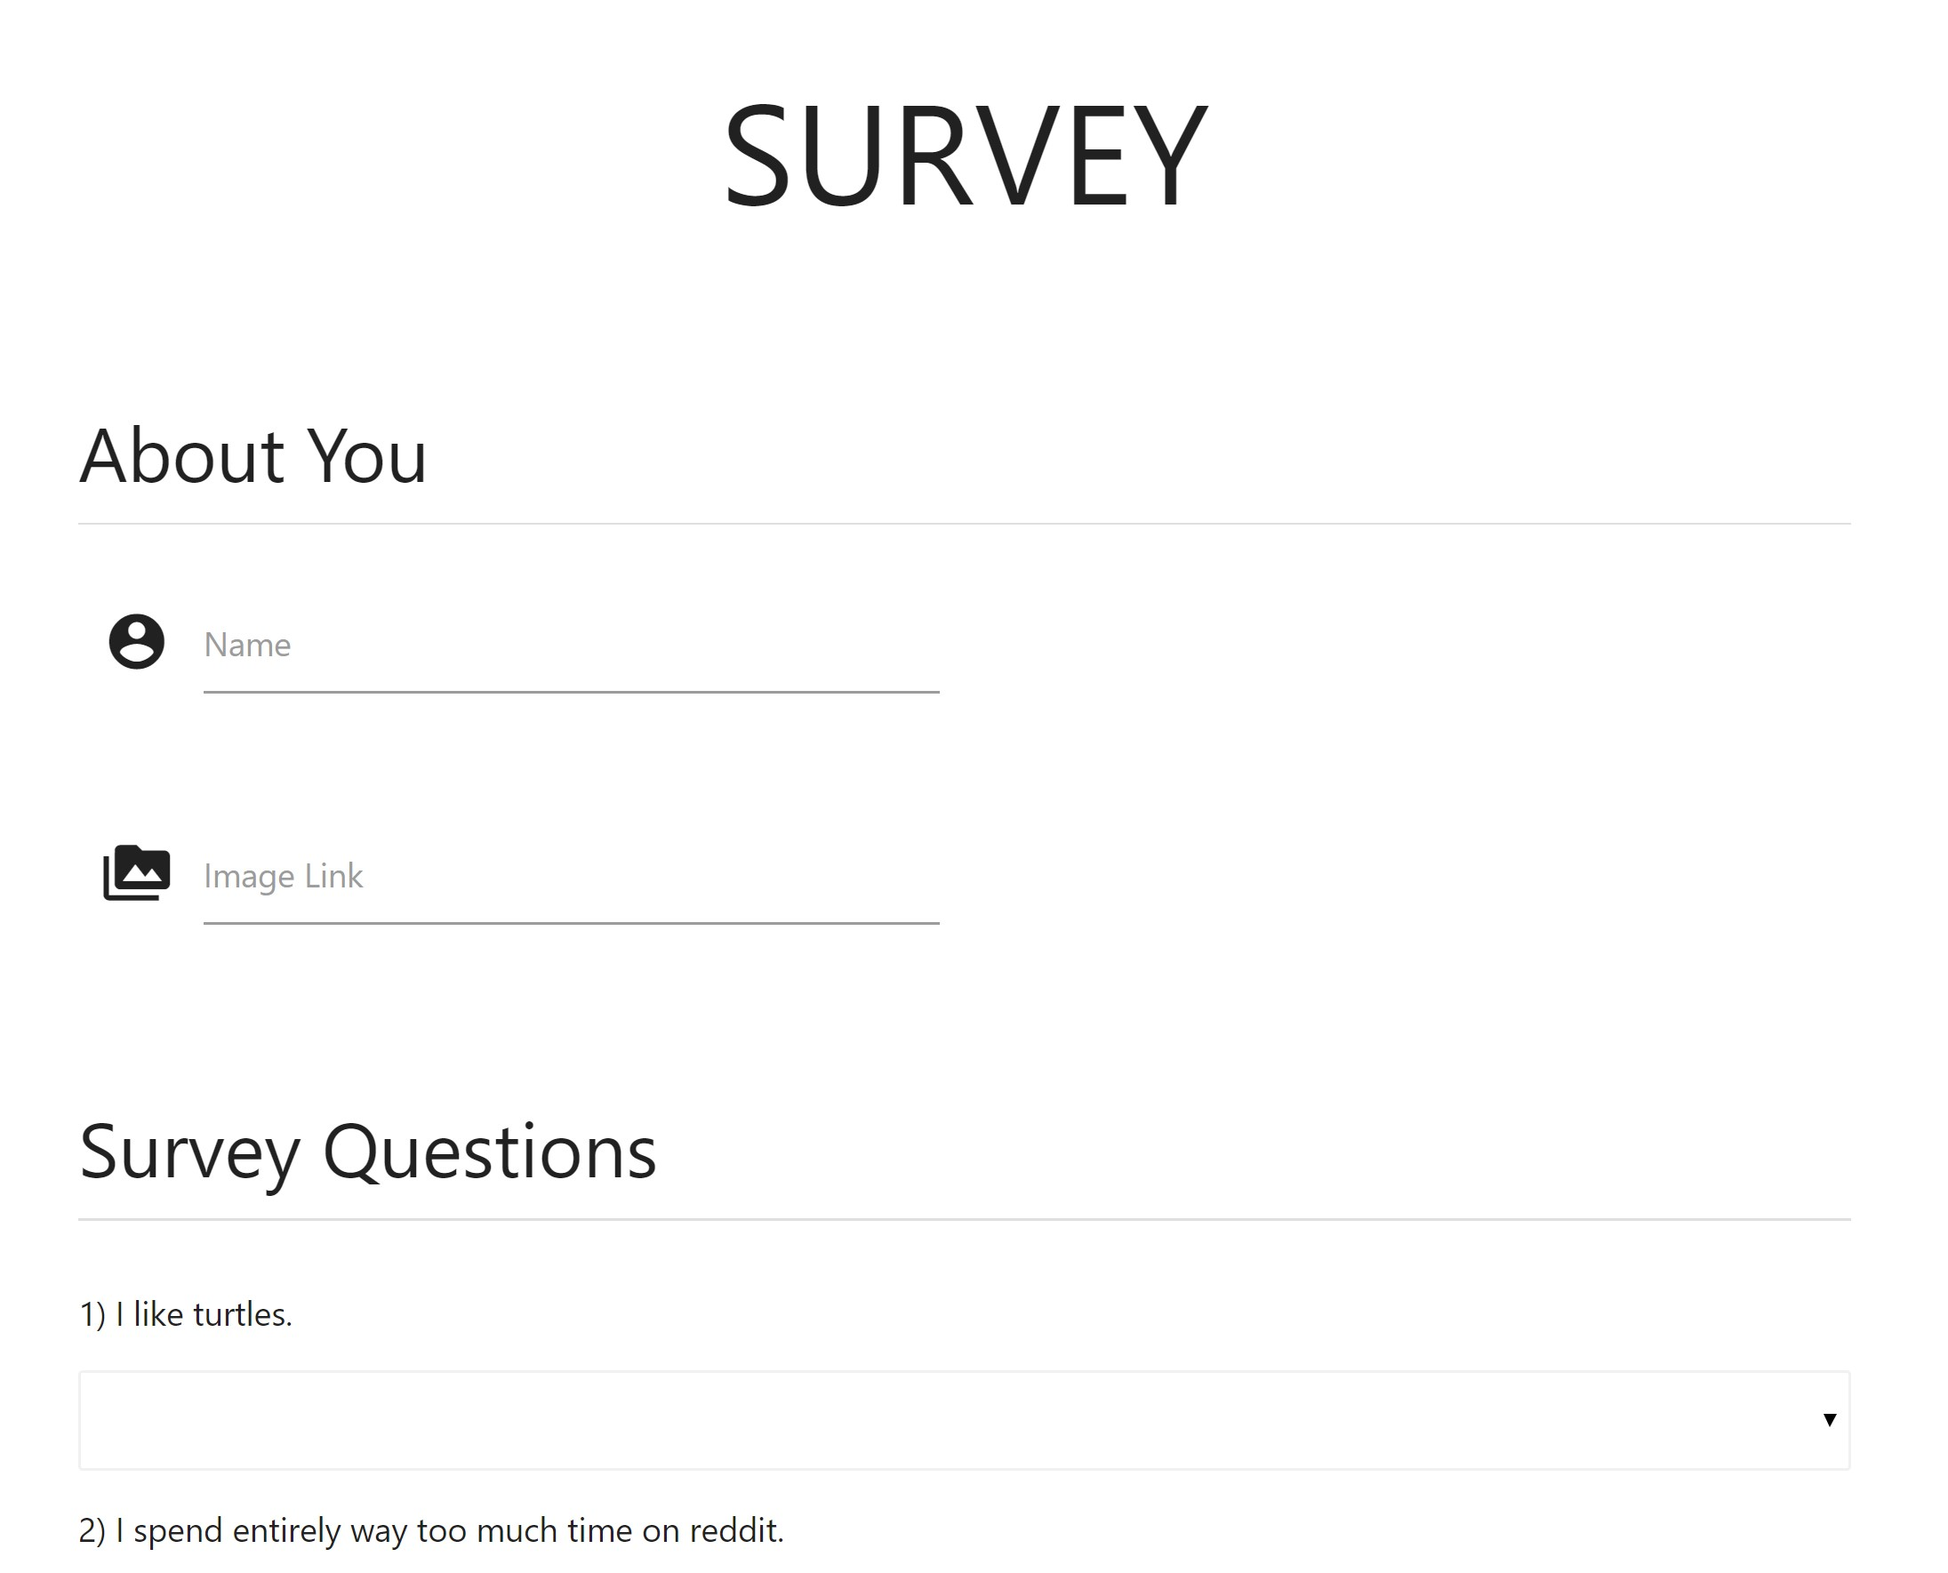
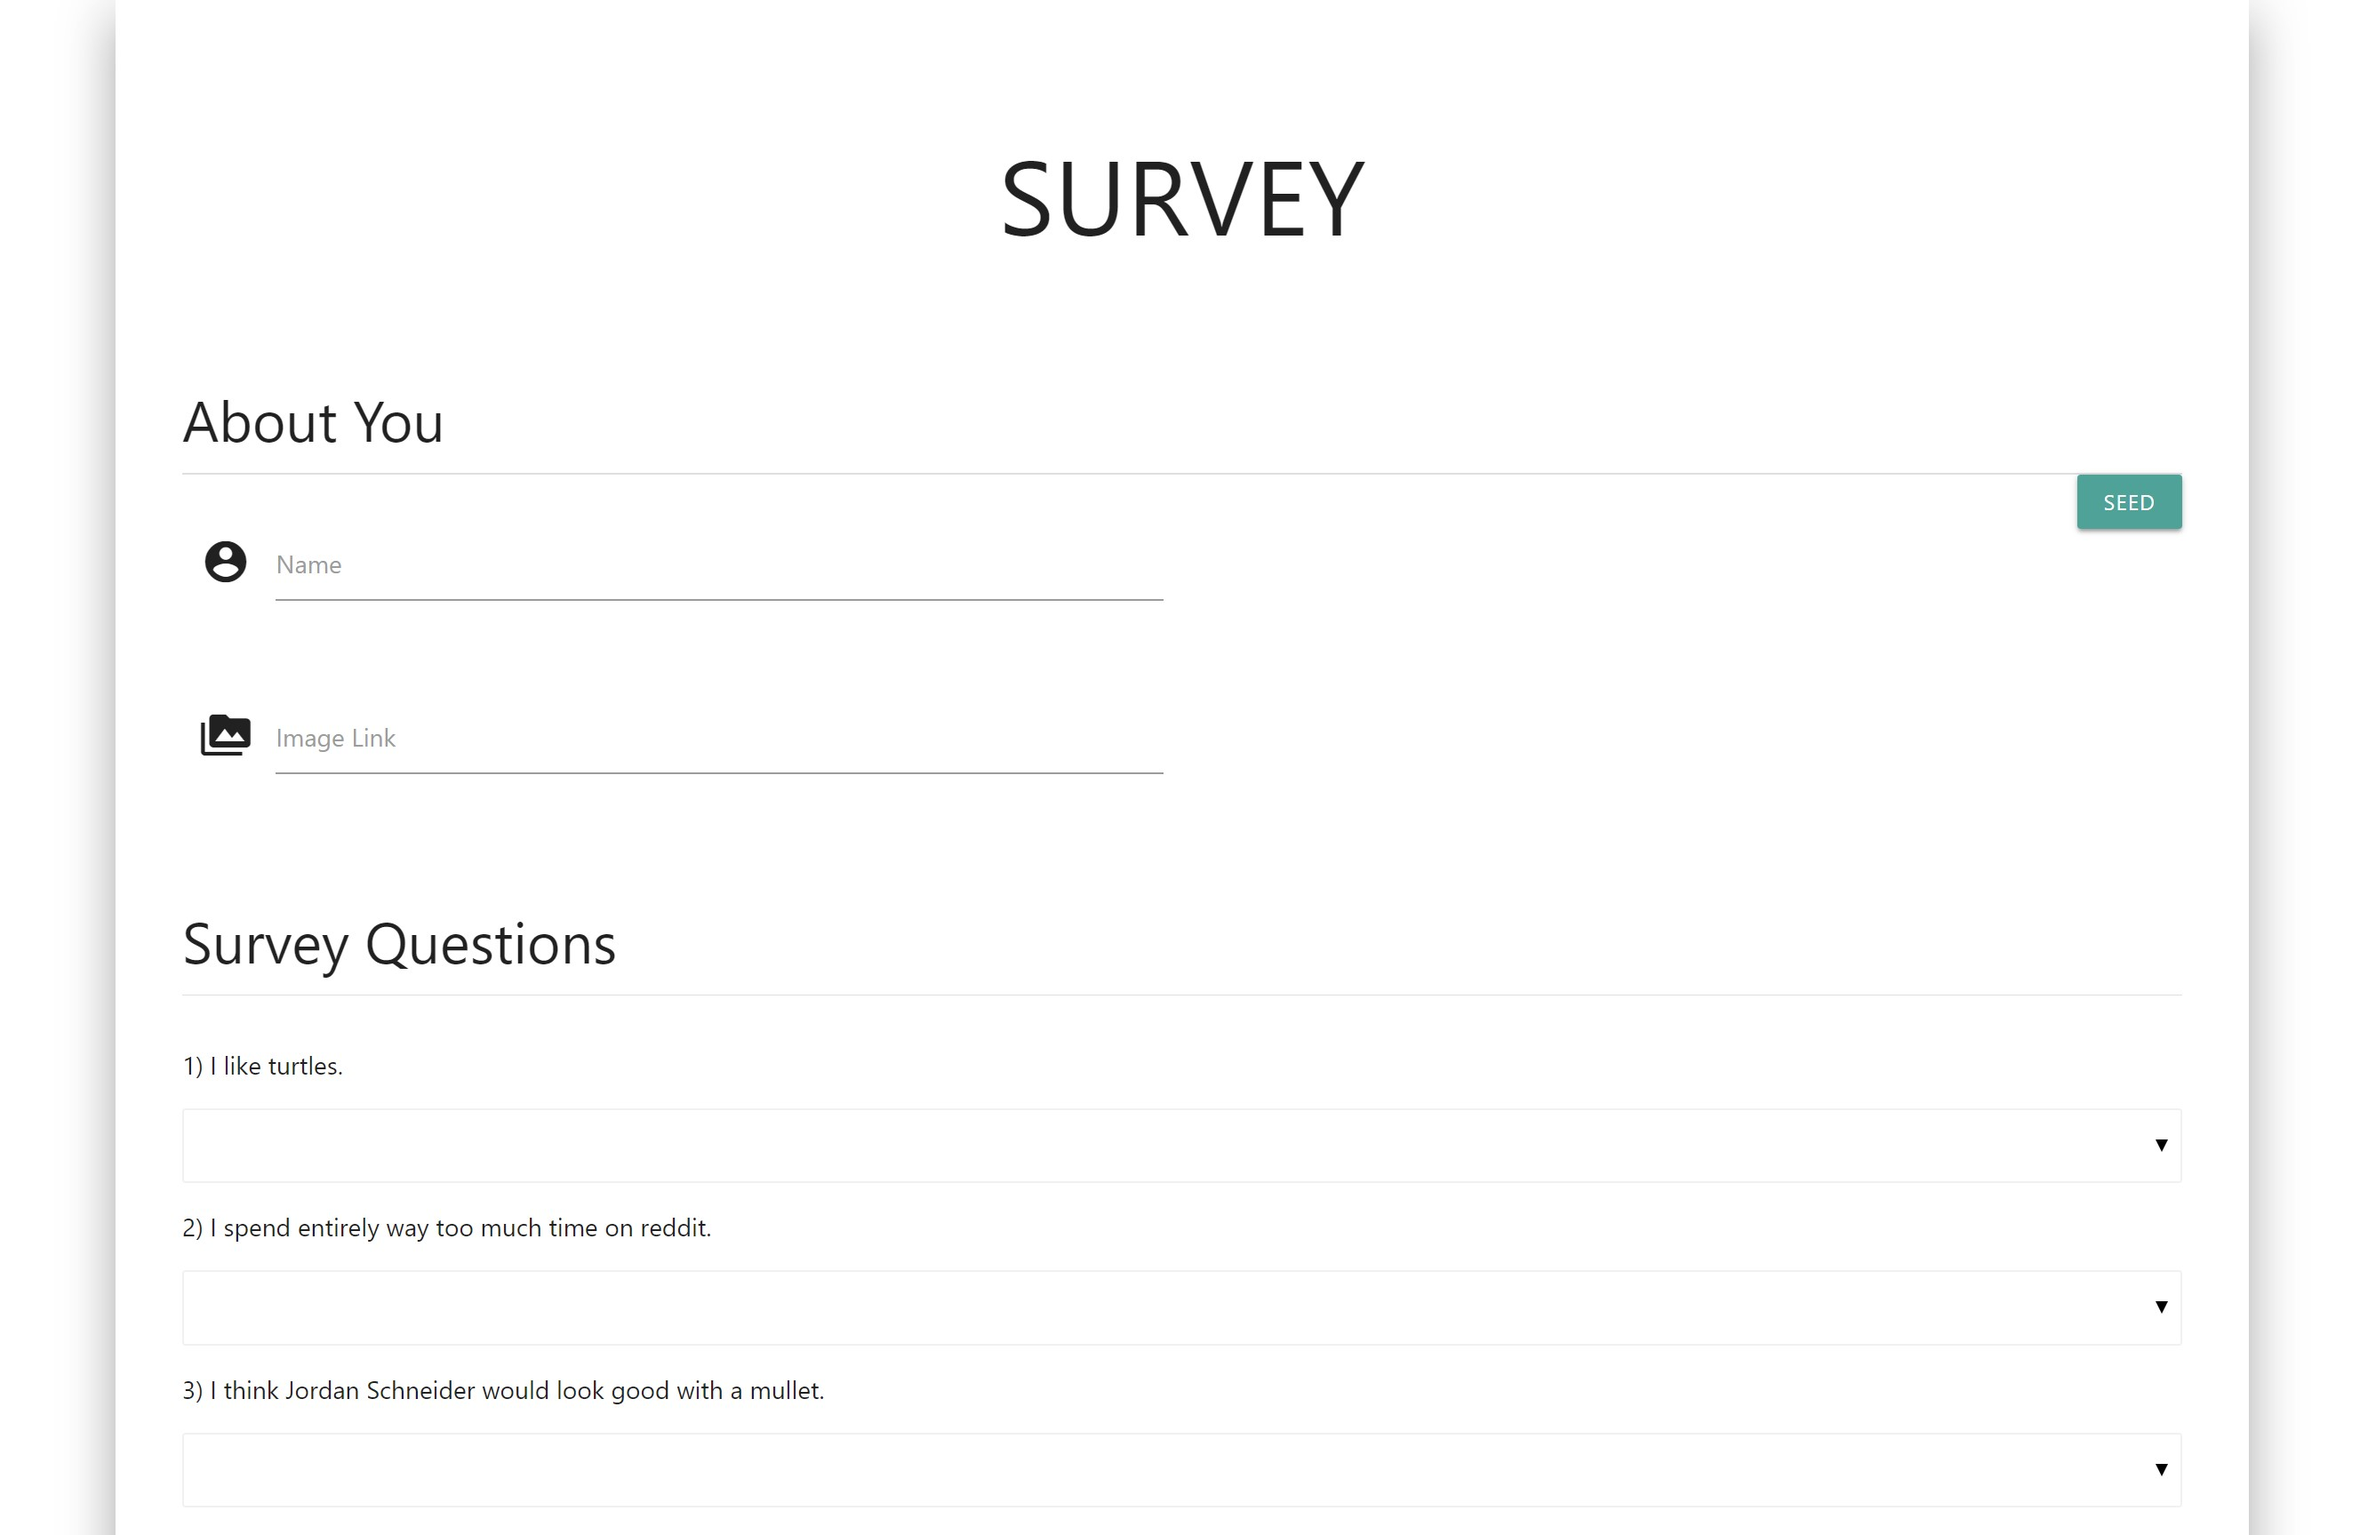
Updated the read me

diff --git a/README.md b/README.md
@@ -4,7 +4,9 @@
 
 UC Davis Coding BootCamp - Week 13 
 
-The application takes user input in the form of a survey. It requires the user to input their name, a link to the image they would like to use, and an answer to 10 questions.The app will then display the name and picture of the user with the best overall match.
+The application takes user input in the form of a survey. It requires the user to input their name, a link to the image they would like to use, and an answer to 10 questions.The app will then display the name and picture of the user with the best overall match. 
+
+There is a seed button included for anyone that wants to generate a mock survey with pre-defined values.
 
 Please feel free to preview the site here:
 https://intense-thicket-62994.herokuapp.com/
